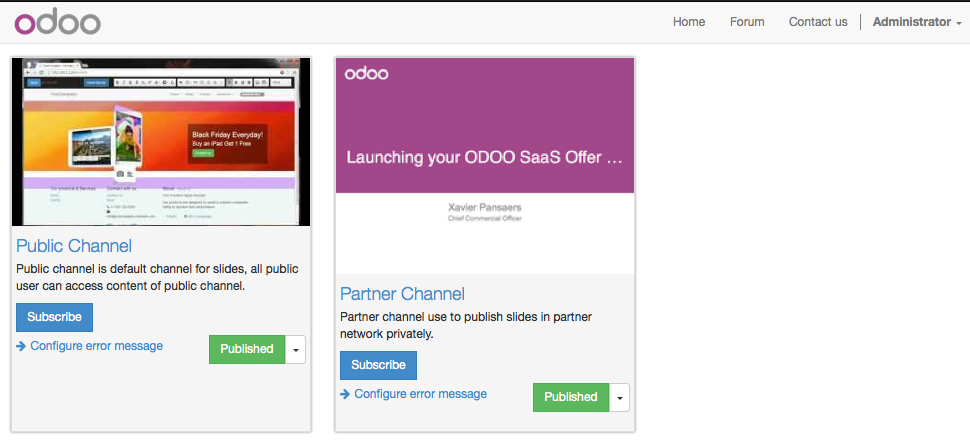
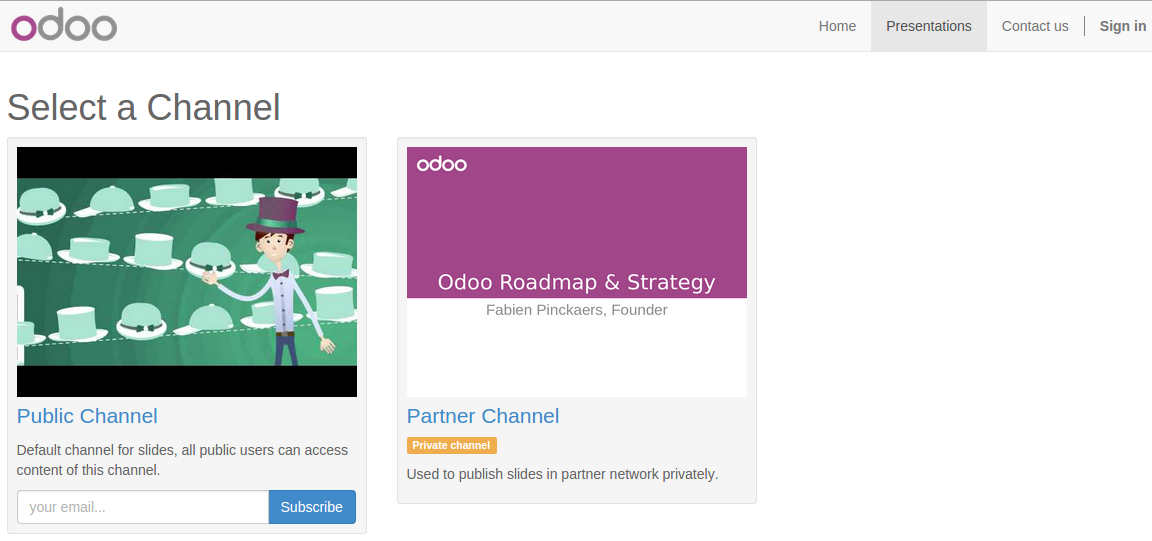
[IMP] website_slides : usability improvements

diff --git a/addons/website_slides/static/src/js/slides.js b/addons/website_slides/static/src/js/slides.js
@@ -29,6 +29,14 @@ $(document).ready(function () {
         $(el).text(display_str);
     });
 
+    // To prevent showing channel settings alert box once user closed it.
+    $('.o_slides_hide_channel_settings').on('click', function(ev) {
+        var channel_id = $(this).data("channelId");
+        ev.preventDefault();
+        document.cookie = "slides_channel_" + channel_id + " = closed";
+        return true;
+    });
+
     /*
      * Like/Dislike Buttons Widget
      */
@@ -140,6 +148,13 @@ $(document).ready(function () {
      * Social Sharing Statistics Widget
      */
     if ($('div#statistic').length) {
+        var slide_url = $("div#statistic").attr('slide-url');
+        var social_urls = {
+            'linkedin': 'https://www.linkedin.com/countserv/count/share?url=',
+            'twitter': 'https://cdn.api.twitter.com/1/urls/count.json?url=',
+            'fb': 'https://graph.facebook.com/?id=',
+            'gplus': 'https://clients6.google.com/rpc'
+        }
         var socialgatter = function (app_url, url, callback) {
             $.ajax({
                 url: app_url + url,
@@ -147,43 +162,77 @@ $(document).ready(function () {
                 success: callback
             });
         };
-        var current_url = window.location.origin + window.location.pathname;
-        socialgatter('https://www.linkedin.com/countserv/count/share?url=', current_url, function (data) {
-            $('#linkedin-badge').text(data.count || 0);
-            $('#total-share').text(parseInt($('#total-share').text()) + parseInt($('#linkedin-badge').text()));
-        });
-        socialgatter('https://cdn.api.twitter.com/1/urls/count.json?url=', current_url, function (data) {
-            $('#twitter-badge').text(data.count || 0);
-            $('#total-share').text(parseInt($('#total-share').text()) + parseInt($('#twitter-badge').text()));
-        });
-        socialgatter('https://graph.facebook.com/?id=', current_url, function (data) {
-            $('#facebook-badge').text(data.shares || 0);
-            $('#total-share').text(parseInt($('#total-share').text()) + parseInt($('#facebook-badge').text()));
+        var update_statistics = function(social_site, slide_url) {
+            if (social_site == 'linkedin') {
+                socialgatter(social_urls['linkedin'], slide_url, function(data) {
+                    $('#linkedin-badge').text(data.count || 0);
+                    $('#total-share').text(parseInt($('#total-share').text()) + parseInt($('#linkedin-badge').text()));
+                });
+            }
+            if (social_site == 'twitter') {
+                socialgatter(social_urls['twitter'], slide_url, function(data) {
+                    $('#twitter-badge').text(data.count || 0);
+                    $('#total-share').text(parseInt($('#total-share').text()) + parseInt($('#twitter-badge').text()));
+                });
+            }
+            if (social_site == 'fb') {
+                socialgatter(social_urls['fb'], slide_url, function(data) {
+                    $('#facebook-badge').text(data.shares || 0);
+                    $('#total-share').text(parseInt($('#total-share').text()) + parseInt($('#facebook-badge').text()));
+                });
+            }
+            if (social_site == 'gplus') {
+                $.ajax({
+                    url: social_urls['gplus'],
+                    type: "POST",
+                    dataType: 'json',
+                    contentType: 'application/json',
+                    data: JSON.stringify([{
+                        "method": "pos.plusones.get",
+                        "id": "p",
+                        "params": {
+                            "nolog": true,
+                            "id": slide_url,
+                            "source": "widget",
+                            "userId": "@viewer",
+                            "groupId": "@self"
+                        },
+                        // TDE NOTE: should there be a key here ?
+                        "jsonrpc": "2.0",
+                        "apiVersion": "v1"
+                    }]),
+                    success: function(data) {
+                        $('#google-badge').text(data[0].result.metadata.globalCounts.count || 0);
+                        $('#total-share').text(parseInt($('#total-share').text()) + parseInt($('#google-badge').text()));
+                    },
+                });
+            }
+        };
+
+        $.each(social_urls, function(key, value) {
+            update_statistics(key, slide_url)
         });
 
-        $.ajax({
-            url: 'https://clients6.google.com/rpc',
-            type: "POST",
-            dataType: 'json',
-            contentType: 'application/json',
-            data: JSON.stringify([{
-                "method": "pos.plusones.get",
-                "id": "p",
-                "params": {
-                    "nolog": true,
-                    "id": current_url,
-                    "source": "widget",
-                    "userId": "@viewer",
-                    "groupId": "@self"
-                },
-                // TDE NOTE: should there be a key here ?
-                "jsonrpc": "2.0",
-                "apiVersion": "v1"
-            }]),
-            success: function (data) {
-                $('#google-badge').text(data[0].result.metadata.globalCounts.count || 0);
-                $('#total-share').text(parseInt($('#total-share').text()) + parseInt($('#google-badge').text()));
-            },
+        $("a.o_slides_social_share").on('click', function(ev) {
+            ev.preventDefault();
+            var key = $(ev.currentTarget).attr('social-key');
+            var win_url = $(ev.currentTarget).attr('href');
+            var win = window.open(
+                win_url,
+                'Share Dialog',
+                'width=626,height=436');
+            var interval = window.setInterval(function() {
+                try {
+                    if (win.closed) {
+                        window.clearInterval(interval);
+                        setTimeout(function() {
+                            update_statistics(key, slide_url);
+                        }, 3000);
+                    }
+                } catch (e) {
+                    window.clearInterval(interval);
+                }
+            }, 1000);
         });
     }
 });

diff --git a/addons/website_slides/static/src/js/slides_upload.js b/addons/website_slides/static/src/js/slides_upload.js
@@ -198,7 +198,7 @@ var SlideDialog = Widget.extend({
             width: '100%',
             placeholder: tag,
             allowClear: true,
-            formatNoMatches: _.str.sprintf(_t("No matches found. Type to create new %s"), tag),
+            formatNoMatches: false,
             multiple: multi,
             selection_data: false,
             fetch_rpc_fnc : fetch_fnc,
@@ -208,14 +208,22 @@ var SlideDialog = Widget.extend({
                 }
                 return data.text;
             },
-            createSearchChoice: function (term) {
-                return {
-                    id: _.uniqueId('tag_'),
-                    create: true,
-                    tag: term,
-                    text: _.str.sprintf(_t("Create New %s '%s'"), tag, term)
-                };
+            check_unique_tag: function(term, tags) {
+                return _.filter(tags, function(tag) {
+                    return tag.text.toLowerCase() === term.toLowerCase()
+                }).length === 0;
             },
+            createSearchChoice: function(term, data) {
+                var added_tags = $(this.opts.element).select2('data');
+                if (this.opts.check_unique_tag(term, _.union(added_tags, data))) {
+                    return {
+                        id: _.uniqueId('tag_'),
+                        create: true,
+                        tag: term,
+                        text: _.str.sprintf(_t("Create New %s '%s'"), tag, term)
+                    };
+                }
+             },
             fill_data: function (query, data) {
                 var that = this,
                     tags = {results: []};
@@ -290,6 +298,14 @@ var SlideDialog = Widget.extend({
             });
         return res;
     },
+    //Python PIL does not support SVG, so converting SVG to PNG
+    svg_to_png: function() {
+        var img = this.$el.find("img#slide-image")[0];
+        var canvas = document.createElement("canvas");
+        canvas.width = img.width, canvas.height = img.height;
+        canvas.getContext("2d").drawImage(img, 0, 0);
+        return canvas.toDataURL("image/png").split(',')[1];
+    },
     // Values and save
     get_value: function () {
         var canvas = this.$('#data_canvas')[0],
@@ -313,8 +329,8 @@ var SlideDialog = Widget.extend({
         if (/^image\/.*/.test(this.file.type)) {
             _.extend(values, {
                 'slide_type': 'infographic',
-                'mime_type': this.file.type,
-                'datas': this.file.data
+                'mime_type': this.file.type === 'image/svg+xml' ? 'image/png' : this.file.type,
+                'datas': this.file.type === 'image/svg+xml' ? this.svg_to_png() : this.file.data
             });
         }
         return values;

diff --git a/addons/website_slides/static/description/index.html b/addons/website_slides/static/description/index.html
@@ -5,14 +5,15 @@
             <h3 class="oe_slogan">Publish your presentations, videos, documents, infographics, etc.</h3>
         </div>
         <div class="oe_span6">
-            <div class="oe_demo oe_picture oe_screenshot">
-                <iframe width="361" height="200" frameborder="0" allowfullscreen="" src=""></iframe>
+            <div class="oe_row_img oe_centered">
+            <p class="oe_mt32">
+                <img src="slides4.png" class="oe_picture oe_screenshot">
             </div>
         </div>
         <div class="oe_span6">
             <p class="oe_mt32">
             Odoo presentations lets you upload files privately or publicly in the following file formats: PowerPoint, PDF, Keynote, Video or OpenDocument presentations.</p>
-            <p>This module originally meant to be used for businesses to share slides among employees more easily. It also provides users the ability to rate, comment, and share the uploaded content.
+            <p>This module originally meant to be used for businesses to share slides among employees more easily. It also provides users the ability to rate, comment, share the uploaded content and see detailed statistics like total views, web-views, embedded-views, likes and dislikes, total comments, total social-shares and shares on individual social site.
             </p>
             <div class="oe_centeralign oe_websiteonly">
                 <a class="oe_button oe_big oe_tacky" href="mailto:sales@openerp.com">Contact Us</a>

diff --git a/addons/website_slides/static/lib/pdfslidesviewer/PDFSlidesViewer.js b/addons/website_slides/static/lib/pdfslidesviewer/PDFSlidesViewer.js
@@ -148,6 +148,23 @@ var PDFSlidesViewer = (function(){
     PDFSlidesViewer.prototype.toggleFullScreen = function(){
         var el = this.canvas;
 
+        var $PDFViewer = $("div#PDFSlideViewer");
+        var $navigation_footer = $('div#PDFViewer > div.navbar-fixed-bottom');
+
+        $(document).unbind('webkitfullscreenchange mozfullscreenchange fullscreenchange')
+            .bind('webkitfullscreenchange mozfullscreenchange fullscreenchange', function() {
+                var state = document.fullScreen || document.mozFullScreen || document.webkitIsFullScreen || document.msFullScreen;
+                if (!state) {
+                    $navigation_footer.removeAttr('style');
+                    $PDFViewer.unbind('click');
+                } else {
+                    $navigation_footer.css('z-index', 2147483647);
+                    $PDFViewer.on('click', function() {
+                        $navigation_footer.fadeToggle();
+                    });
+                }
+            });
+
         var isFullscreenAvailable = document.fullscreenEnabled || document.mozFullScreenEnabled || document.webkitFullscreenEnabled || document.msFullscreenEnabled || false;
         if(isFullscreenAvailable){ // Full screen supported
             // get the actual element in FullScreen mode (Null if no element)

diff --git a/addons/website_slides/static/src/less/website_slides.less b/addons/website_slides/static/src/less/website_slides.less
@@ -86,6 +86,10 @@ img.oe_slides_promote_image {
     color: @link-color;
 }
 
+textarea.o_slides_comment {
+    resize: vertical;
+}
+
 // Thumbnails
 .oe_slides_thumbnail_container{
     height: 300px
@@ -101,6 +105,11 @@ img.oe_slides_promote_image {
     width: 100%;
     overflow: hidden;
     text-overflow: ellipsis
+}
+
+.o_slide_preview {
+    max-height: 160px;
+    overflow: hidden;
 }
 
 // Suggested slides grid
@@ -153,4 +162,18 @@ img.oe_slides_promote_image {
 // PDF Viewer Share bar
 .oe_slides_share_bar{
     padding: 10px 0;
+}
+
+.oe_slides_panel_footer #page_number {
+    width: 45px;
+}
+// Display Slide Navigation Footer bit clear on mobile preview
+@media screen and (max-width: 300px) {
+    .o_slide_navigation_buttons {
+        margin-left: 15px;
+        margin-right: -15px;
+        .col-xs-4 {
+            display: none;
+        }
+    }
 }

diff --git a/addons/website_slides/models/slides.py b/addons/website_slides/models/slides.py
@@ -135,7 +135,7 @@ class Category(models.Model):
     _order = "sequence, id"
 
     name = fields.Char('Name', translate=True, required=True)
-    channel_id = fields.Many2one('slide.channel', string="Channel", required=True)
+    channel_id = fields.Many2one('slide.channel', string="Channel", required=True, ondelete='cascade')
     sequence = fields.Integer(default=10, help='Display order')
     slide_ids = fields.One2many('slide.slide', 'category_id', string="Slides")
     nbr_presentations = fields.Integer("Number of Presentations", compute='_count_presentations', store=True)
@@ -239,8 +239,8 @@ class Slide(models.Model):
     def _get_image(self):
         for record in self:
             if record.image:
-                record.image_medium = image.crop_image(record.image, thumbnail_ratio=3)
-                record.image_thumb = image.crop_image(record.image, thumbnail_ratio=4)
+                record.image_medium = image.crop_image(record.image, type='top', ratio=(4, 3), thumbnail_ratio=4)
+                record.image_thumb = image.crop_image(record.image, type='top', ratio=(4, 3), thumbnail_ratio=6)
             else:
                 record.image_medium = False
                 record.iamge_thumb = False
@@ -314,7 +314,12 @@ class Slide(models.Model):
     def _website_url(self, name, arg):
         res = super(Slide, self)._website_url(name, arg)
         base_url = self.env['ir.config_parameter'].get_param('web.base.url')
-        res.update({(slide.id, '%s/slides/slide/%s' % (base_url, slug(slide))) for slide in self})
+        #link_tracker is not in dependencies, so use it to shorten url only if installed.
+        if self.env.registry.get('link.tracker'):
+            LinkTracker = self.env['link.tracker']
+            res.update({(slide.id, LinkTracker.sudo().create({'url': '%s/slides/slide/%s' % (base_url, slug(slide))}).short_url) for slide in self})
+        else:
+            res.update({(slide.id, '%s/slides/slide/%s' % (base_url, slug(slide))) for slide in self})
         return res
 
 

diff --git a/addons/website_slides/controllers/main.py b/addons/website_slides/controllers/main.py
@@ -4,7 +4,7 @@ import logging
 import werkzeug
 
 from openerp.addons.web import http
-from openerp.exceptions import AccessError
+from openerp.exceptions import AccessError, UserError
 from openerp.http import request
 from openerp.tools.translate import _
 
@@ -127,6 +127,7 @@ class website_slides(http.Controller):
             'user': user,
             'pager': pager,
             'is_public_user': user == request.website.user_id,
+            'display_channel_settings': not request.httprequest.cookies.get('slides_channel_%s' % (channel.id), False) and channel.can_see_full,
         }
         if search:
             values['search'] = search
@@ -312,7 +313,7 @@ class website_slides(http.Controller):
         # otherwise client slide create dialog box continue processing even server fail to create a slide.
         try:
             slide_id = request.env['slide.slide'].create(values)
-        except AccessError as e:
+        except (UserError, AccessError) as e:
             _logger.error(e)
             return {'error': e.name}
         except Exception as e:
